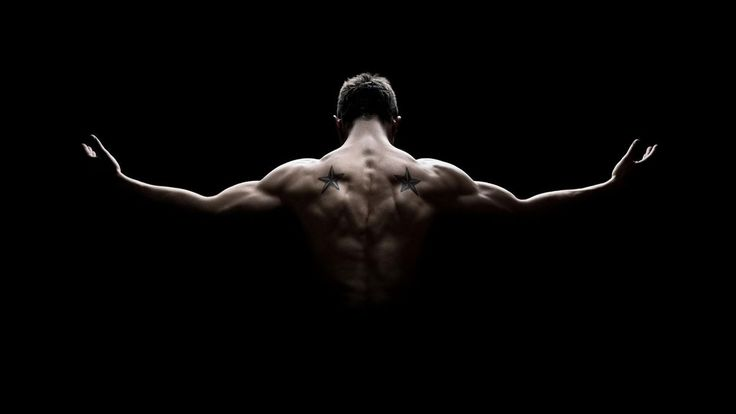
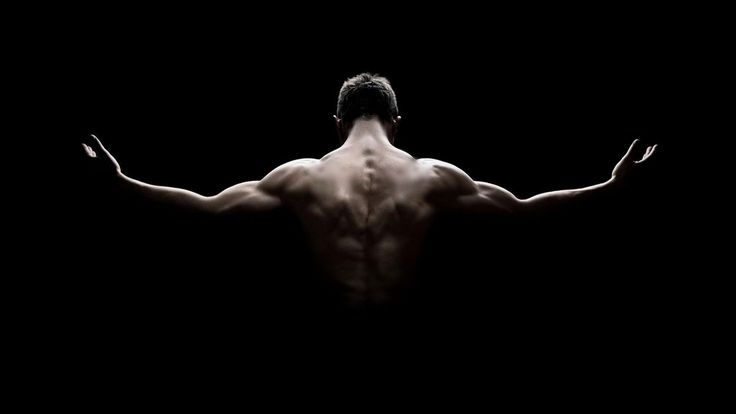
Hero retouch and motion, clearer Arabic copy, remove progress bar
- Remove the star tattoos from the hero photo
- Red key light follows scroll, mouse and phone tilt (subtle)
- Larger athlete on desktop and mobile; athlete centred on mobile
- Arabic copy in Modern Standard Arabic; brand text split from the
  delivery and shipping details
- Short note on how ordering works under the categories heading
- Remove the scroll progress bar from the statement section

Claude-Session: https://claude.ai/code/session_01B1KmCk123mHnQHas8jaJij

Changed region(s): [[0.4062, 0.3768, 0.5938, 0.4928]]

diff --git a/src/home.css b/src/home.css
@@ -95,12 +95,12 @@ ul{margin:0;padding:0;list-style:none}
 .hero-layer--word{display:grid;place-items:center;align-content:start;padding-top:clamp(120px,22vh,240px);transform:perspective(1000px) translate3d(calc(var(--px)*-14px),calc(var(--py)*-10px),calc(var(--out)*-260px)) scale(calc(1 + var(--out)*.25));opacity:calc(1 - var(--out)*1.3)}
 .hero-layer--athlete{mix-blend-mode:lighten;transform-origin:50% 38%;opacity:calc(1 - var(--out)*.8);transform:perspective(1200px) translate3d(calc(var(--px)*16px),calc(var(--py)*10px - var(--out)*5vh),calc(var(--out)*240px)) rotateX(calc(var(--out)*20deg + var(--py)*-3deg)) rotateY(calc(var(--px)*4deg))}
 
-.hero-glow{position:absolute;left:50%;top:clamp(40px,7vh,96px);width:min(150vh,96vw);aspect-ratio:736/414;transform:translateX(-50%);background:radial-gradient(36% 40% at 50% 34%,rgba(248,3,6,.19),rgba(248,3,6,.06) 55%,transparent 75%)}
+.hero-glow{position:absolute;left:50%;top:clamp(24px,4vh,72px);width:min(168vh,112vw);aspect-ratio:736/414;transform:translateX(-50%);background:radial-gradient(36% 40% at 50% 34%,rgba(248,3,6,.19),rgba(248,3,6,.06) 55%,transparent 75%)}
 .hero-floor{position:absolute;left:50%;bottom:-18vh;width:120vw;height:46vh;transform:translateX(-50%);background:radial-gradient(50% 50% at 50% 50%,rgba(248,3,6,.16),transparent 70%)}
 .hero-word{font-family:var(--display);font-style:italic;font-weight:900;font-size:min(17.5vw,34vh);line-height:.8;letter-spacing:-.01em;color:transparent;-webkit-text-stroke:1.5px rgba(247,247,247,.10);white-space:nowrap;user-select:none}
 .hero-word span{-webkit-text-stroke-color:rgba(248,3,6,.3)}
 
-.hero-athlete{position:absolute;left:50%;top:clamp(40px,7vh,96px);width:min(150vh,96vw);aspect-ratio:736/414;transform:translateX(-50%)}
+.hero-athlete{position:absolute;left:50%;top:clamp(24px,4vh,72px);width:min(168vh,112vw);aspect-ratio:736/414;transform:translateX(-50%)}
 .hero-athlete-inner{position:absolute;inset:0}
 .hero-photo{width:100%;height:100%;object-fit:cover}
 .hero-light{position:absolute;inset:0;width:100%;height:100%;mix-blend-mode:screen;opacity:0;transition:opacity 1.2s ease;pointer-events:none}
@@ -128,13 +128,18 @@ ul{margin:0;padding:0;list-style:none}
 
 /* Brand statement (second scene) */
 .brand{position:relative;padding:clamp(80px,12vw,150px) 0;background:var(--black)}
-.brand-inner{display:grid;grid-template-columns:minmax(0,1.3fr) minmax(0,1fr);align-items:end;gap:clamp(28px,6vw,100px)}
+.brand-inner{display:grid;grid-template-columns:minmax(0,1.2fr) minmax(0,1fr);align-items:center;gap:clamp(28px,5vw,80px)}
 .brand-title{font-family:var(--display);font-style:italic;font-weight:900;text-transform:uppercase;font-size:clamp(52px,min(8vw,13vh),136px);line-height:.88;letter-spacing:-.01em}
 .brand-line{display:block}
 .brand-line>span{display:inline-block}
 .brand-line--outline>span{color:transparent;-webkit-text-stroke:1.5px var(--white)}
 .brand-line--red>span{color:var(--red)}
-.brand-copy{font-size:clamp(17px,1.5vw,20px);line-height:1.9;color:var(--text-muted);max-width:40ch;justify-self:end;padding-bottom:.4em}
+.brand-text{display:grid;gap:18px;max-width:460px;justify-self:end}
+.brand-copy{font-size:clamp(18px,1.6vw,22px);line-height:1.8;font-weight:600;color:var(--text)}
+.brand-delivery{display:grid;gap:10px}
+.brand-delivery li{display:grid;gap:2px;padding:14px 18px;border-radius:var(--radius);background:rgba(247,247,247,.05)}
+.brand-delivery b{color:var(--white);font-weight:700;font-size:16px}
+.brand-delivery span{color:var(--text-muted);font-size:16px;line-height:1.7}
 
 /* Hero entrance (JS only; content is visible without it) */
 .js .hero-athlete-inner{opacity:0;filter:brightness(.15);transform:scale(1.08)}
@@ -160,12 +165,13 @@ ul{margin:0;padding:0;list-style:none}
 .pin .hero-pin{position:sticky;top:0;height:100vh;height:100svh;overflow:hidden}
 .pin .hero{position:absolute;inset:0;min-height:0}
 .pin .brand{position:absolute;inset:0;z-index:3;display:grid;align-items:center;padding:var(--header-h) 0 0;background:none;pointer-events:none}
-.pin .brand-line,.pin .brand-copy{--k:0;--e:clamp(0,calc(var(--in)*1.7 - var(--k)*.17),1)}
+.pin .brand-line,.pin .brand-copy,.pin .brand-delivery{--k:0;--e:clamp(0,calc(var(--in)*1.9 - var(--k)*.15),1)}
 .pin .brand-line>span{transform:perspective(900px) translate3d(0,calc((1 - var(--e))*70px),calc((1 - var(--e))*-380px)) rotateX(calc((1 - var(--e))*-55deg));opacity:var(--e);transform-origin:50% 100%;will-change:transform}
 .pin .brand-line:nth-child(2){--k:1}
 .pin .brand-line:nth-child(3){--k:2}
 .pin .brand-line:nth-child(4){--k:3}
 .pin .brand-copy{--k:4;opacity:var(--e);transform:translateY(calc((1 - var(--e))*30px))}
+.pin .brand-delivery{--k:5;opacity:var(--e);transform:translateY(calc((1 - var(--e))*30px))}
 
 /* Scroll reveals */
 .js [data-reveal]{opacity:0;transform:translateY(28px);transition:opacity .9s ease calc(var(--d,0)*.09s),transform 1.1s var(--ease-out) calc(var(--d,0)*.09s)}
@@ -173,8 +179,10 @@ ul{margin:0;padding:0;list-style:none}
 .js [data-reveal].is-in{opacity:1;transform:none}
 
 /* ---------- Categories ---------- */
-.categories{position:relative;padding:clamp(80px,10vw,140px) 0 clamp(90px,11vw,150px);background:linear-gradient(var(--black),#0c0c0d 30%)}
-.section-title{font-family:var(--display);font-style:italic;font-weight:900;text-transform:uppercase;font-size:clamp(52px,7.4vw,120px);line-height:.86;letter-spacing:-.01em;margin-bottom:clamp(36px,4.5vw,64px)}
+.categories{position:relative;padding:clamp(56px,7vw,104px) 0 clamp(72px,9vw,128px);background:linear-gradient(var(--black),#0c0c0d 30%)}
+.section-head{display:flex;flex-wrap:wrap;align-items:flex-end;justify-content:space-between;gap:16px 48px;margin-bottom:clamp(32px,4vw,56px)}
+.section-title{font-family:var(--display);font-style:italic;font-weight:900;text-transform:uppercase;font-size:clamp(52px,7.4vw,120px);line-height:.86;letter-spacing:-.01em}
+.section-sub{max-width:420px;font-size:17px;line-height:1.8;color:var(--text-muted);padding-bottom:.4em}
 .section-title em{color:transparent;-webkit-text-stroke:1.5px var(--white)}
 
 .category-grid{display:grid;grid-template-columns:repeat(3,minmax(0,1fr));gap:clamp(16px,2vw,28px)}
@@ -211,14 +219,12 @@ ul{margin:0;padding:0;list-style:none}
 @keyframes arrow-run{0%{transform:none}45%{transform:translateX(170%)}46%{transform:translateX(-170%)}100%{transform:none}}
 
 /* ---------- Statement ---------- */
-.statement{position:relative;isolation:isolate;overflow:hidden;padding:clamp(100px,13vw,180px) 0 clamp(90px,11vw,150px);background:var(--black);--sp:0;--si:0}
+.statement{position:relative;isolation:isolate;overflow:hidden;padding:clamp(80px,10vw,140px) 0 clamp(72px,9vw,120px);background:var(--black);--sp:0;--si:0}
 .statement-glow{position:absolute;inset:0;z-index:-1;background:
   radial-gradient(48% 55% at 50% 52%,rgba(248,3,6,calc(.10 + var(--si)*.20)),transparent 70%),
   radial-gradient(30% 40% at calc(20% + var(--sp)*60%) 60%,rgba(248,3,6,.10),transparent 70%),
   radial-gradient(90% 70% at 50% 120%,rgba(32,33,36,.9),transparent 70%)}
 .statement-inner{position:relative;display:grid;gap:clamp(28px,4vw,48px)}
-.progress-bar{height:8px;border-radius:999px;background:rgba(247,247,247,.08);overflow:hidden}
-.progress-bar span{display:block;height:100%;border-radius:inherit;background:var(--red);box-shadow:0 0 18px rgba(248,3,6,.7);transform:scaleX(var(--sp));transform-origin:left}
 .statement-title{font-family:var(--display);font-style:italic;font-weight:900;text-transform:uppercase;font-size:clamp(64px,10.2vw,184px);line-height:.86;letter-spacing:-.015em}
 .st-line{display:block;white-space:nowrap}
 .st-line--1{transform:translate3d(calc((1 - var(--si))*-14vw),0,0);opacity:calc(.2 + var(--si)*.8)}
@@ -255,17 +261,18 @@ ul{margin:0;padding:0;list-style:none}
   .hero-stage{position:relative;grid-row:1;inset:auto}
   .hero-layer--word{display:none}
   /* Tighter editorial crop on small screens: shoulders and back fill the frame */
-  .hero-athlete,.hero-glow{width:min(150vw,1120px);top:50%;transform:translate(-50%,-50%)}
+  /* Centre the athlete (not the photo) in the frame */
+  .hero-athlete,.hero-glow{width:min(178vw,1300px);top:50%;transform:translate(-50%,-40%)}
   .hero-floor{bottom:-30%;height:60%}
   .hero-shade{background:linear-gradient(to top,var(--black) 0%,rgba(8,8,8,0) 30%),radial-gradient(120% 90% at 50% 50%,transparent 60%,rgba(8,8,8,.7) 100%)}
-  .hero-content{grid-row:2;gap:22px;padding-bottom:max(48px,env(safe-area-inset-bottom));margin-top:-6vw}
+  .hero-content{grid-row:2;gap:22px;padding-bottom:max(48px,env(safe-area-inset-bottom));margin-top:-12vw}
   .hero-title{font-size:clamp(60px,17vw,128px)}
   .hero-intro{font-size:17px}
   .hero-aside .btn{justify-self:stretch;justify-content:space-between}
 
   .brand-inner{grid-template-columns:1fr}
   .brand-title{font-size:clamp(48px,14vw,96px)}
-  .brand-copy{justify-self:start}
+  .brand-text{justify-self:stretch;max-width:none}
 
   .category-grid{grid-template-columns:1fr;gap:18px}
   .cat-media,.cat-light{aspect-ratio:5/4}

diff --git a/index.html b/index.html
@@ -6,7 +6,7 @@
 <meta name="theme-color" content="#080808">
 <meta name="color-scheme" content="dark">
 <title>PowerPunch | Gymwear, Supplements &amp; Training Gear</title>
-<meta name="description" content="PowerPunch: gymwear, supplements and training gear. ملابس رياضية، مكمّلات وأدوات تمرين مع توصيل بحلب واللاذقية.">
+<meta name="description" content="PowerPunch: gymwear, supplements and training gear. ملابس رياضية ومكمّلات غذائية وأدوات تمرين، مع التوصيل في حلب واللاذقية.">
 <link rel="icon" type="image/png" sizes="32x32" href="products/powerpunch-favicon-32.png">
 <link rel="icon" type="image/png" sizes="48x48" href="products/powerpunch-favicon-48.png">
 <link rel="apple-touch-icon" sizes="180x180" href="products/powerpunch-favicon-180.png">
@@ -74,7 +74,7 @@
           <h1 id="hero-title" class="hero-title" data-field="title"><span class="line"><span class="line-inner hero-line-1" data-enter="1">Punch above</span></span> <span class="line"><span class="line-inner hero-line-2 accent" data-enter="2">your weight.</span></span></h1>
           <div class="hero-aside-wrap">
             <div class="hero-aside" data-enter="3">
-              <p class="hero-intro" lang="ar" dir="rtl" data-field="intro">ملابس رياضية، مكمّلات وأدوات تمرين. اختار اللي بيناسب تمرينك واطلبه بسهولة.</p>
+              <p class="hero-intro" lang="ar" dir="rtl" data-field="intro">ملابس رياضية ومكمّلات غذائية وأدوات تمرين. اختر ما يناسب تمرينك واطلبه بسهولة.</p>
               <a class="btn btn--primary" href="#categories">
                 <span>Shop now</span>
                 <svg class="btn-arrow" viewBox="0 0 24 24" aria-hidden="true"><path d="M12 5v14m0 0-5.5-5.5M12 19l5.5-5.5"/></svg>
@@ -94,7 +94,13 @@
             <span class="brand-line"><span>Driven by</span></span>
             <span class="brand-line brand-line--red"><span>discipline.</span></span>
           </h2>
-          <p class="brand-copy" lang="ar" dir="rtl">PowerPunch بيجمعلك لبس التمرين والمكمّلات والأدوات الرياضية بمكان واحد. استلام أو توصيل بحلب واللاذقية، وشحن عبر القدموس لباقي المناطق.</p>
+          <div class="brand-text" lang="ar" dir="rtl">
+            <p class="brand-copy">يجمع PowerPunch الملابس الرياضية والمكمّلات الغذائية وأدوات التمرين في متجر واحد، فتجد كل ما يحتاجه تمرينك دون عناء البحث.</p>
+            <ul class="brand-delivery" role="list">
+              <li><b>الاستلام والتوصيل</b><span>متاحان في حلب واللاذقية.</span></li>
+              <li><b>الشحن</b><span>إلى باقي المحافظات عبر مراكز القدموس.</span></li>
+            </ul>
+          </div>
         </div>
       </section>
 
@@ -103,7 +109,10 @@
 
   <section class="categories" id="categories" aria-labelledby="categories-title">
     <div class="container">
-      <h2 id="categories-title" class="section-title"><span class="line"><span class="line-inner" data-reveal>Shop by <em>category</em></span></span></h2>
+      <div class="section-head">
+        <h2 id="categories-title" class="section-title"><span class="line"><span class="line-inner" data-reveal>Shop by <em>category</em></span></span></h2>
+        <p class="section-sub" lang="ar" dir="rtl" data-reveal style="--d:1">اختر المنتج واللون والمقاس، ثم أرسل طلبك عبر واتساب ليؤكد فريقنا التوفّر وموعد التوصيل.</p>
+      </div>
 
       <ul class="category-grid" role="list">
         <li class="category-item" data-reveal>
@@ -115,7 +124,7 @@
             <span class="cat-body">
               <span class="cat-text">
                 <span class="cat-title">Clothing</span>
-                <span class="cat-desc" lang="ar" dir="rtl">بلايز كومبرشن، تيشيرتات، بناطيل وشورتات.</span>
+                <span class="cat-desc" lang="ar" dir="rtl">ملابس ضاغطة وقمصان رياضية وسراويل طويلة وقصيرة.</span>
               </span>
               <span class="cat-arrow" aria-hidden="true"><svg viewBox="0 0 24 24"><path d="M5 12h14m0 0-6-6m6 6-6 6"/></svg></span>
             </span>
@@ -130,7 +139,7 @@
             <span class="cat-body">
               <span class="cat-text">
                 <span class="cat-title">Supplements</span>
-                <span class="cat-desc" lang="ar" dir="rtl">بروتين، كرياتين ومنشطات قبل التمرين.</span>
+                <span class="cat-desc" lang="ar" dir="rtl">بروتين وكرياتين ومكمّلات ما قبل التمرين.</span>
               </span>
               <span class="cat-arrow" aria-hidden="true"><svg viewBox="0 0 24 24"><path d="M5 12h14m0 0-6-6m6 6-6 6"/></svg></span>
             </span>
@@ -145,7 +154,7 @@
             <span class="cat-body">
               <span class="cat-text">
                 <span class="cat-title">Equipment</span>
-                <span class="cat-desc" lang="ar" dir="rtl">مشدّات، سترابس وإكسسوارات للتمرين.</span>
+                <span class="cat-desc" lang="ar" dir="rtl">أحزمة وأشرطة رفع الأثقال وإكسسوارات التمرين.</span>
               </span>
               <span class="cat-arrow" aria-hidden="true"><svg viewBox="0 0 24 24"><path d="M5 12h14m0 0-6-6m6 6-6 6"/></svg></span>
             </span>
@@ -159,13 +168,12 @@
     <div class="statement-glow" aria-hidden="true"></div>
     <div class="grain" aria-hidden="true"></div>
     <div class="container statement-inner">
-      <div class="progress-bar" aria-hidden="true"><span></span></div>
       <h2 id="statement-title" class="statement-title">
         <span class="st-line st-line--1">No shortcuts.</span>
         <span class="st-line st-line--2"><span class="st-outline">Just</span> progress.</span>
       </h2>
       <div class="statement-foot">
-        <p lang="ar" dir="rtl">كل تمرين بيقرّبك خطوة. جهّز حالك وكمّل.</p>
+        <p lang="ar" dir="rtl">كل تمرين يقرّبك خطوة من هدفك. استعدّ وواصل.</p>
         <a class="btn btn--primary" href="#categories">
           <span>Pick your gear</span>
           <svg class="btn-arrow" viewBox="0 0 24 24" aria-hidden="true"><path d="M12 19V5m0 0-5.5 5.5M12 5l5.5 5.5"/></svg>

diff --git a/src/home-light.js b/src/home-light.js
@@ -94,13 +94,18 @@ export function initHeroLight(canvas, image, { coarse = false } = {}) {
   const uTexel = u('uTexel'), uLight = u('uLight'), uAspect = u('uAspect'), uIntensity = u('uIntensity');
   gl.uniform2f(uTexel, 1.6 / image.naturalWidth, 1.6 / image.naturalHeight);
 
-  const REST = { x: 0.7, y: 0.1 };
+  // Light target = scroll path + mouse offset + device-tilt offset (all in uv space).
   const state = {
-    x: 0.08, y: -0.12,            // current light position (uv)
-    tx: REST.x, ty: REST.y,       // target
+    x: 0.08, y: -0.12,            // current light position
     i: 0, ti: 1,                  // intensity
-    scroll: 0, pointer: false,
+    scroll: 0,
+    pointer: { x: 0, y: 0 },
+    tilt: { x: 0, y: 0 },
   };
+  const target = () => ({
+    x: 0.74 - state.scroll * 0.55 + state.pointer.x * 0.6 + state.tilt.x * 0.35,
+    y: 0.08 + state.scroll * 0.22 + state.pointer.y * 0.35 + state.tilt.y * 0.2,
+  });
   let raf = 0;
   let visible = true;
   let lost = false;
@@ -122,19 +127,19 @@ export function initHeroLight(canvas, image, { coarse = false } = {}) {
   function draw() {
     if (lost) return;
     gl.uniform2f(uLight, state.x, state.y);
-    gl.uniform1f(uIntensity, state.i * (1 - state.scroll * 0.85));
+    gl.uniform1f(uIntensity, state.i * (1 - state.scroll * 0.45));
     gl.drawArrays(gl.TRIANGLE_STRIP, 0, 4);
   }
 
   function tick() {
     raf = 0;
     if (!visible || lost) return;
-    const k = state.pointer ? 0.09 : 0.035;
-    state.x += (state.tx - state.x) * k;
-    state.y += (state.ty - state.y) * k;
+    const t = target();
+    state.x += (t.x - state.x) * 0.06;
+    state.y += (t.y - state.y) * 0.06;
     state.i += (state.ti - state.i) * 0.04;
     draw();
-    if (Math.abs(state.tx - state.x) > 0.0008 || Math.abs(state.ty - state.y) > 0.0008 || Math.abs(state.ti - state.i) > 0.002) {
+    if (Math.abs(t.x - state.x) > 0.0008 || Math.abs(t.y - state.y) > 0.0008 || Math.abs(state.ti - state.i) > 0.002) {
       raf = requestAnimationFrame(tick);
     }
   }
@@ -153,25 +158,24 @@ export function initHeroLight(canvas, image, { coarse = false } = {}) {
   wake();
 
   return {
+    // Pointer position in the viewport, as -0.5..0.5 offsets.
     setPointer(clientX, clientY) {
-      const r = canvas.getBoundingClientRect();
-      state.pointer = true;
-      state.tx = (clientX - r.left) / r.width;
-      state.ty = (clientY - r.top) / r.height;
+      state.pointer.x = clientX / innerWidth - 0.5;
+      state.pointer.y = clientY / innerHeight - 0.5;
       wake();
     },
     releasePointer() {
-      state.pointer = false;
-      state.tx = REST.x; state.ty = REST.y;
+      state.pointer.x = 0; state.pointer.y = 0;
       wake();
     },
+    // Device tilt, normalised to -1..1.
+    setTilt(x, y) {
+      state.tilt.x = x; state.tilt.y = y;
+      wake();
+    },
+    // Progress of the hero exit, 0..1.
     setScroll(p) {
       state.scroll = p;
-      if (coarse || !state.pointer) {
-        // On touch devices the light slowly travels across the athlete as the page scrolls.
-        state.tx = REST.x - p * 0.5;
-        state.ty = REST.y + p * 0.25;
-      }
       wake();
     },
   };

diff --git a/src/home.js b/src/home.js
@@ -181,6 +181,36 @@
     });
   }
 
+  /* ---------- Phone tilt: moves the red light and adds slight 3D depth ---------- */
+  if (hero && motion && !finePointer.matches && 'DeviceOrientationEvent' in window) {
+    let base = null;
+    let pending = null;
+    let raf = 0;
+    const apply = () => {
+      raf = 0;
+      if (!pending) return;
+      const { x, y } = pending;
+      hero.style.setProperty('--px', (x * 0.6).toFixed(4));
+      hero.style.setProperty('--py', (y * 0.6).toFixed(4));
+      light?.setTilt(x, y);
+    };
+    const onOrient = e => {
+      if (e.gamma == null || e.beta == null) return;
+      if (base === null) base = e.beta;
+      pending = { x: clamp(e.gamma / 30, -1, 1), y: clamp((e.beta - base) / 30, -1, 1) };
+      if (!raf) raf = requestAnimationFrame(apply);
+    };
+    const listen = () => addEventListener('deviceorientation', onOrient, { passive: true });
+    if (typeof DeviceOrientationEvent.requestPermission === 'function') {
+      // iOS asks for permission, and only after a tap.
+      document.addEventListener('click', () => {
+        DeviceOrientationEvent.requestPermission().then(state => { if (state === 'granted') listen(); }).catch(() => {});
+      }, { once: true });
+    } else {
+      listen();
+    }
+  }
+
   /* ---------- Category cards: tilt + cursor light (fine pointers only) ---------- */
   if (finePointer.matches && motion) {
     document.querySelectorAll('[data-tilt]').forEach(card => {
